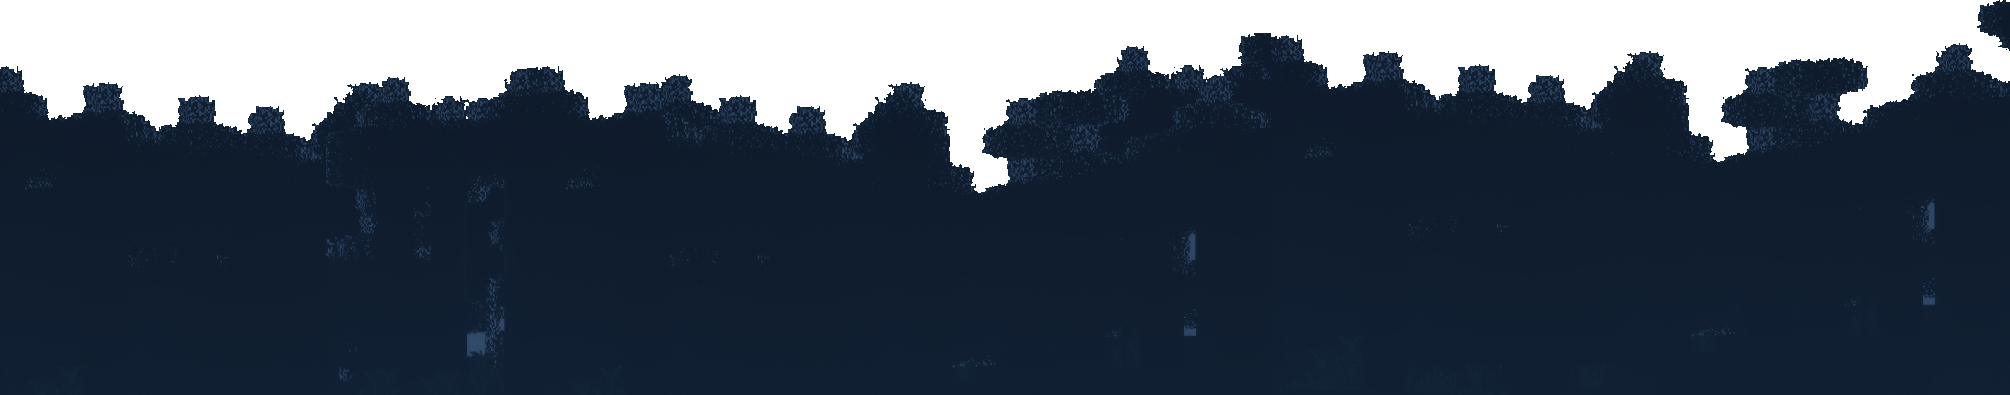
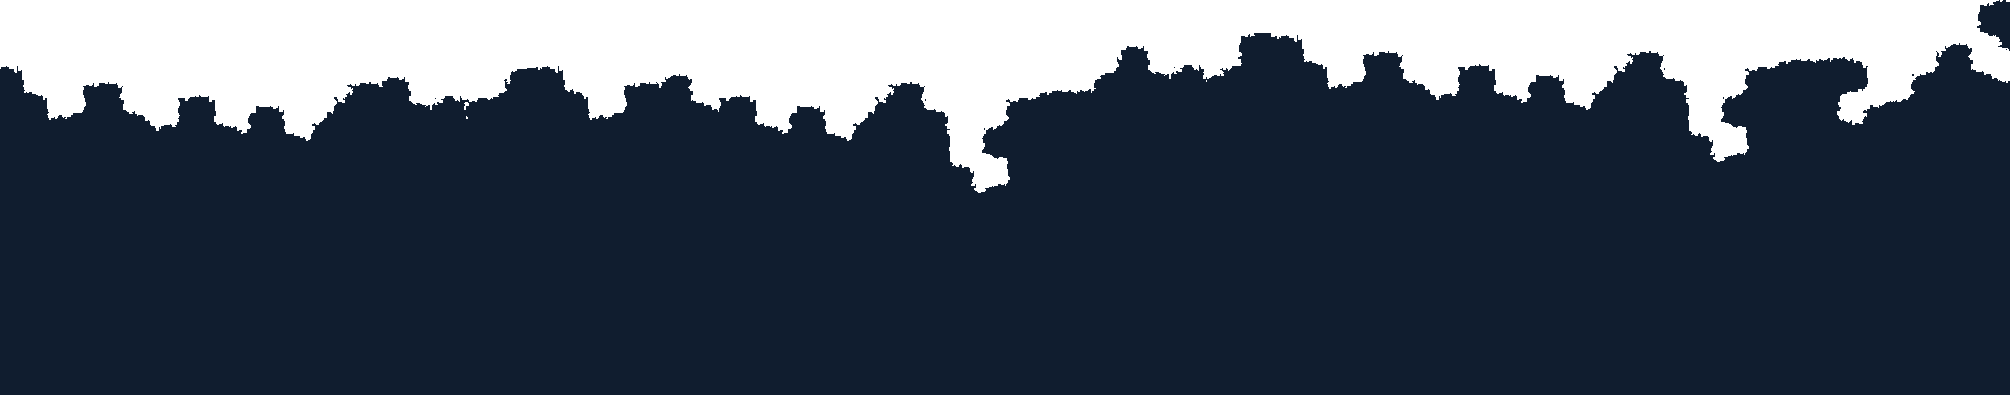
finished with new news

diff --git a/src/app/page/news/news-item/news-item.component.css b/src/app/page/news/news-item/news-item.component.css
@@ -1,7 +1,8 @@
 :host {
-  height: 100%;
-  width: 100%;
+
   display: block;
+  overflow: hidden;
+
 }
 
 .center {
@@ -12,18 +13,39 @@
 
 }
 
-.background {
+.background:after {
   background-image: url("https://i.imgur.com/GUTseTO.jpg");
-  height: 100%;
+  position: absolute;
+  z-index: -1;
   width: 100%;
-  display: block;
+  height: 100vh;
+  top: 0;
+  left: 0;
+  content: " ";
   background-position: center;
   background-size: cover;
   display: block;
-  z-index: -1;
+  border: 2px solid red;
+  filter: blur(0.5em);
   transform: scale(1.2);
-  overflow: hidden;
+
 }
+
+.background {
+  overflow: hidden;
+  min-height: 100vh;
+  width: 100%;
+  display: block;
+
+  display: block;
+  z-index: 0;
+  overflow: hidden;
+  position: relative;
+  border: 2px solid pink;
+
+}
+
+
 
 .flex {
   margin-top: 8em;
@@ -50,4 +72,19 @@ header {
 
 header img {
   width: 100%;
+}
+
+.mat-card-title {
+  text-align: center;
+  margin: 0 auto;
+  border: 1px solid pink;
+  width: 100% !important;
+  display: block !important;
+  font-size: 2em;
+}
+
+.img-warp {
+  width: 100%;
+  max-height: 250px;
+  overflow: hidden;
 }

diff --git a/src/app/page/news/news.component.html b/src/app/page/news/news.component.html
@@ -4,6 +4,8 @@
       routerLink="{{ '/news/' + n.id }}"
       *ngFor="let n of rawNews.slice(0, 3)"
       [title]="n.title"
+      [subText]="n.subText"
+      [imagePath]="n.imagePath"
       [class.mat-elevation-z2]="true"
     >
     </app-card>
@@ -18,15 +20,15 @@
   <div class="site-row">
     <br />
     <div>
-      <mat-card *ngFor="let n of rawNews.slice(3, rawNews.length - 3)">
+      <mat-card *ngFor="let n of rawNews.slice(3, 3 + maxPosts)">
         <app-mini-card routerLink="{{ '/news/' + n.id }}" [title]="n.title">
         </app-mini-card>
       </mat-card>
     </div>
   </div>
 
-  <div class="site-row load-more-wrap">
-    <button mat-button>
+  <div class="site-row load-more-wrap" *ngIf="maxPosts + 3 <= rawNews.length">
+    <button mat-button (click)="increaseMaxPost()">
       טען עוד
     </button>
   </div>
@@ -37,6 +39,7 @@
       [class.mat-elevation-z2]="true"
     >
     </app-card> -->
+
 <!-- <mat-card class="example-card" *ngFor="let n of rawNews">
   </mat-card> -->
 <!-- <mat-card-header>

diff --git a/src/app/page/admin/admin-news/admin-news-create/admin-news-create.component.ts b/src/app/page/admin/admin-news/admin-news-create/admin-news-create.component.ts
@@ -40,6 +40,8 @@ export class AdminNewsCreateComponent implements OnInit {
       title: new FormControl(null, {}),
       category: new FormControl(null, {}),
       content: new FormControl(null, {}),
+      imagePath: new FormControl(null, {}),
+      subText: new FormControl(null, {}),
     });
   }
   onEditorChanged(event: EditorChangeContent | EditorChangeSelection): void {
@@ -50,10 +52,18 @@ export class AdminNewsCreateComponent implements OnInit {
       title: this.form.value.title,
       content: this.form.value.content,
       category: this.form.value.category,
+      imagePath: this.form.value.imagePath,
+      subText: this.form.value.subText,
     };
     console.log('====================================');
     console.log(newsPost);
     console.log('====================================');
-    this.news.addNews(newsPost.title, 2, newsPost.content);
+    this.news.addNews(
+      newsPost.title,
+      2,
+      newsPost.content,
+      newsPost.imagePath,
+      newsPost.subText
+    );
   }
 }

diff --git a/src/app/page/admin/admin-news/admin-news-create/admin-news-create.component.html b/src/app/page/admin/admin-news/admin-news-create/admin-news-create.component.html
@@ -12,6 +12,12 @@
       </mat-form-field>
     </p>
     <p>
+      <mat-form-field class="full-width">
+        <mat-label>מסלול אל תמונה</mat-label>
+        <input matInput formControlName="imagePath" type="text" />
+      </mat-form-field>
+    </p>
+    <p>
       <mat-form-field appearance="fill">
         <mat-label>קטגוריה</mat-label>
         <mat-select formControlName="category" [(value)]="selectedFood">
@@ -22,13 +28,10 @@
         </mat-select>
       </mat-form-field>
     </p>
-    <!-- <quill-editor
-      [styles]="editorStyle"
-      placeholder="הכנס טקסט"
-      required
-      (onEditorChanged)="onEditorChanged($event)"
-    >
-    </quill-editor> -->
+    <mat-form-field class="full-width">
+      <mat-label>sub text</mat-label>
+      <textarea matInput formControlName="subText" type="text"> </textarea>
+    </mat-form-field>
     <mat-form-field class="full-width">
       <textarea matInput formControlName="content" type="text"> </textarea>
     </mat-form-field>

diff --git a/src/app/page/news/news.service.ts b/src/app/page/news/news.service.ts
@@ -12,15 +12,22 @@ export class NewsService {
   private newsUpdated = new Subject<{ data: News[]; message: string }>();
 
   constructor(private http: HttpClient, private router: Router) {}
-  addNews(title: string, category: number, htmlString: string) {
+  addNews(
+    title: string,
+    category: number,
+    htmlString: string,
+    imagePath: string,
+    subText: string
+  ) {
     console.log(title, category, htmlString);
 
     const newsData = new FormData();
     let data = {
       title,
-      imagePath: '',
+      imagePath: imagePath,
       text: htmlString,
       topic: category,
+      subText,
     };
 
     console.log(data);
@@ -52,6 +59,7 @@ export class NewsService {
       content: string;
       imagePath: string;
       category: number;
+      subText: string;
       date: Date;
     }>('http://localhost:3000/api/newsManger/' + id);
     console.log(ret);

diff --git a/src/app/page/news/news-item/news-item.component.html b/src/app/page/news/news-item/news-item.component.html
@@ -7,7 +7,7 @@
         <mat-card-header>
           <div mat-card-avatar class="example-header-image"></div>
           <mat-card-title>{{ title }}</mat-card-title>
-          <mat-card-subtitle> כללי </mat-card-subtitle>
+          <mat-card-subtitle> </mat-card-subtitle>
         </mat-card-header>
         <div class="img-warp">
           <img mat-card-image [src]="imagePath" alt="{{ title }}" />
@@ -19,6 +19,6 @@
         </mat-card-content>
       </mat-card>
     </div>
-    <div class="right"></div>
+    <div class="right">x</div>
   </div>
 </div>

diff --git a/src/app/page/news/news.component.ts b/src/app/page/news/news.component.ts
@@ -10,6 +10,7 @@ import { NewsService } from './news.service';
 })
 export class NewsComponent implements OnInit {
   rawNews: News[] = [];
+  maxPosts = 3;
   private postsSubscription: Subscription;
   constructor(private news: NewsService) {}
 
@@ -28,5 +29,10 @@ export class NewsComponent implements OnInit {
       block: 'start',
       inline: 'nearest',
     });
+  }
+  increaseMaxPost(): void {
+    ++this.maxPosts;
+    ++this.maxPosts;
+    ++this.maxPosts;
   }
 }

diff --git a/src/styles.css b/src/styles.css
@@ -170,8 +170,7 @@ body::-webkit-scrollbar-thumb {
   position: absolute;
   height: 150px;
   width: 100%;
-  filter: blur(1px);
-  transform: scale(1.2);
+  
 
   background-image: url('assets/img/minecraft-bottom.png');
   background-position: top;

diff --git a/src/app/app-routing.module.ts b/src/app/app-routing.module.ts
@@ -50,7 +50,9 @@ const routes: Routes = [
 ];
 
 @NgModule({
-  imports: [RouterModule.forRoot(routes)],
+  imports: [
+    RouterModule.forRoot(routes, { scrollPositionRestoration: 'enabled' }),
+  ],
 
   exports: [RouterModule],
 })

diff --git a/src/app/page/news/news.model.ts b/src/app/page/news/news.model.ts
@@ -4,4 +4,5 @@ export interface News {
   imagePath: string;
   content: string;
   category: number;
+  subText: string;
 }

diff --git a/src/app/page/news/news.component.css b/src/app/page/news/news.component.css
@@ -1,5 +1,5 @@
 :host {
-  --ime-pad: 50em;
+  --ime-pad: 0em;
 }
 
 
